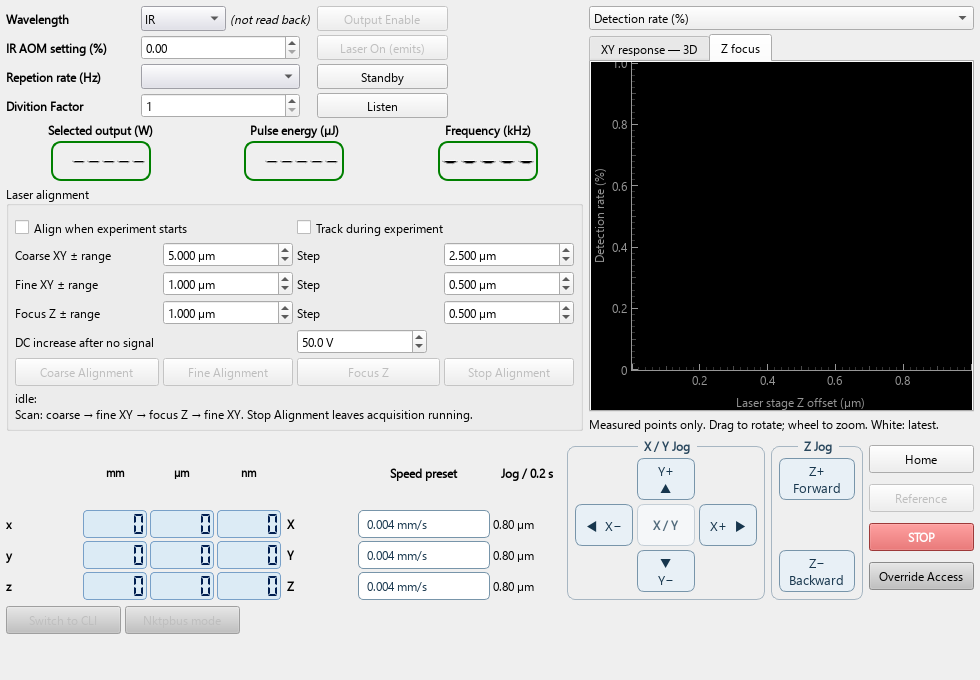
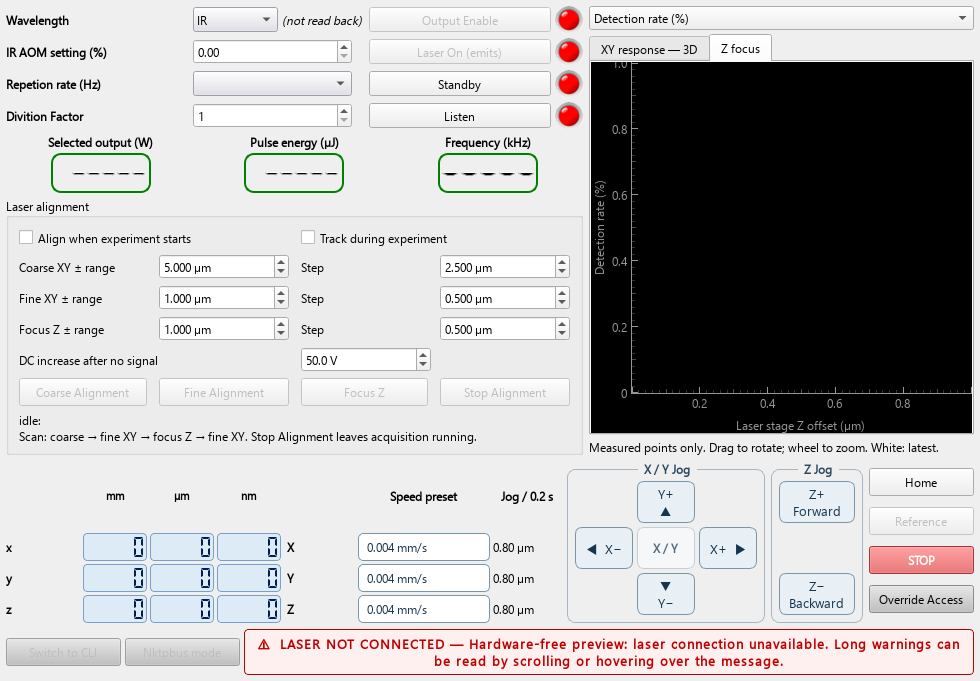
Bound laser messages to two lines and space alignment fields

diff --git a/pyccapt/control/gui/laser_layout.py b/pyccapt/control/gui/laser_layout.py
@@ -3,6 +3,11 @@ from PyQt6 import QtCore, QtWidgets
 
 
 class LaserLayoutMixin:
+    def _reset_laser_message_scroll(self):
+        area = getattr(self, 'laser_message_area', None)
+        if area is not None:
+            area.verticalScrollBar().setValue(0)
+
     def _setup_compact_laser_layout(self, parent):
         main = self.gridLayout_5
         while main.count():
@@ -26,6 +31,10 @@ class LaserLayoutMixin:
         self.laser_wavelegnth.setFixedSize(85, 25)
         for button in (self.laser_enable, self.laser_on, self.laser_standby, self.laser_listen):
             button.setFixedHeight(25)
+        for led in (self.led_laser_enable, self.led_laser_on,
+                    self.led_laser_laser_standby, self.led_laser_listen):
+            led.setFixedSize(28, 28)
+            led.setScaledContents(True)
         while self.horizontalLayout.count():
             self.horizontalLayout.takeAt(0)
         readouts = QtWidgets.QGridLayout()
@@ -40,8 +49,11 @@ class LaserLayoutMixin:
             readouts.addWidget(label, 0, column)
             readouts.addWidget(lcd, 1, column, alignment=QtCore.Qt.AlignmentFlag.AlignCenter)
         settings_layout.addLayout(readouts)
-        self.laser_alignment_panel.layout().setContentsMargins(6, 10, 6, 6)
-        self.laser_alignment_panel.layout().setSpacing(4)
+        alignment = self.laser_alignment_panel.layout()
+        alignment.setContentsMargins(10, 8, 10, 8)
+        alignment.setHorizontalSpacing(12)
+        alignment.setVerticalSpacing(6)
+        alignment.setSizeConstraint(QtWidgets.QLayout.SizeConstraint.SetMinimumSize)
         for field in self.laser_alignment_fields.values():
             widest_value = f'{field.maximum():.{field.decimals()}f}{field.suffix()}'
             field.setFixedSize(max(130, field.fontMetrics().horizontalAdvance(widest_value) + 30), 25)
@@ -86,11 +98,29 @@ class LaserLayoutMixin:
             button.setFixedSize(115, 28)
             connection.addWidget(button)
         self.laser_connection_banner.setMinimumWidth(0)
-        connection.addWidget(self.laser_connection_banner, 1)
-        connection.addStretch(1)
+        # Both message types share a two-line viewport. Long warnings remain
+        # readable by scrolling instead of increasing the window's height.
+        self.laser_message_area = QtWidgets.QScrollArea(parent)
+        self.laser_message_area.setObjectName('laser_message_area')
+        self.laser_message_area.setFrameShape(QtWidgets.QFrame.Shape.NoFrame)
+        self.laser_message_area.setWidgetResizable(True)
+        self.laser_message_area.setHorizontalScrollBarPolicy(QtCore.Qt.ScrollBarPolicy.ScrollBarAlwaysOff)
+        line_height = max(self.Error.fontMetrics().lineSpacing(),
+                          self.laser_connection_banner.fontMetrics().lineSpacing())
+        self.laser_message_area.setFixedHeight(2 * line_height + 12)
+        messages = QtWidgets.QWidget()
+        message_layout = QtWidgets.QVBoxLayout(messages)
+        message_layout.setContentsMargins(0, 0, 0, 0)
+        message_layout.setSpacing(4)
+        message_layout.setSizeConstraint(QtWidgets.QLayout.SizeConstraint.SetMinimumSize)
+        for label in (self.Error, self.laser_connection_banner):
+            label.setMinimumWidth(0)
+            label.setSizePolicy(QtWidgets.QSizePolicy.Policy.Expanding, QtWidgets.QSizePolicy.Policy.Minimum)
+            message_layout.addWidget(label)
+        self.Error.setVisible(getattr(self, '_laser_error_active', False))
+        self.laser_message_area.setWidget(messages)
+        connection.addWidget(self.laser_message_area, 1)
         main.addLayout(connection, 2, 0, 1, 2)
-        self.Error.setMinimumWidth(0)
-        main.addWidget(self.Error, 3, 0, 1, 2)
         main.setColumnStretch(0, 3)
         main.setColumnStretch(1, 2)
         main.setRowStretch(0, 1)

diff --git a/tests/control/test_responsive_gui.py b/tests/control/test_responsive_gui.py
@@ -410,8 +410,14 @@ def test_camera_compact_layout_preserves_views_and_all_controls(instrument_windo
 def test_laser_compact_layout_preserves_controls_and_readouts(instrument_window, tmp_path):
     window, ui, app = instrument_window
     # Exercise the persistent banner as well as the wrapped alignment status.
-    ui.laser_connection_banner.setText('Laser unavailable: reconnect the configured CLI port.')
-    ui.laser_connection_banner.show()
+    reason = ("Laser: port COM9 opened but the laser did not reply to any CLI command "
+              "(Incomplete or missing laser reply to ly_oxp2_dev_status?). Most likely "
+              "the laser is in NKTPBus mode — use 'Switch to CLI', or check the cable.")
+    ui._set_laser_disconnected_banner(reason)
+    led = QtGui.QPixmap(str(runtime.project_path('files', 'led-red-on.png')))
+    assert not led.isNull()
+    for widget in (ui.led_laser_on, ui.led_laser_enable, ui.led_laser_listen, ui.led_laser_laser_standby):
+        widget.setPixmap(led)
     if ui.alignment_plot.view is not None:
         ui.alignment_plot.tabs.setCurrentIndex(1)
     window.show()
@@ -429,7 +435,7 @@ def test_laser_compact_layout_preserves_controls_and_readouts(instrument_window,
                 *ui.laser_alignment_fields.values(), *ui.laser_alignment_buttons,
                 ui.laser_alignment_stop, ui.laser_alignment_label, ui.alignment_plot,
                 ui.laser_home, ui.laser_stage_reference, ui.laser_stage_stop, ui.laser_stage_superuser,
-                ui.switch_to_cli_button, ui.nktpbus_mode_switch, ui.laser_connection_banner,
+                ui.switch_to_cli_button, ui.nktpbus_mode_switch, ui.laser_message_area,
                 ui.laser_up, ui.laser_down, ui.laser_left, ui.laser_right,
                 ui.laser_forward, ui.laser_backward, ui.laser_power_disp,
                 ui.laser_pulse_energy_disp, ui.laser_repetion_rate_disp]
@@ -454,6 +460,34 @@ def test_laser_compact_layout_preserves_controls_and_readouts(instrument_window,
     assert not ui.switch_to_cli_button.isEnabled()
     assert ui.label_9.text() == 'Selected output (W)'
     assert ui.label_10.text() == 'Pulse energy (µJ)'
+    for suffix in ('range_um', 'step_um'):
+        fields = [ui.laser_alignment_fields[f'{mode}_{suffix}'] for mode in ('coarse', 'fine', 'focus')]
+        for top, bottom in zip(fields, fields[1:]):
+            assert bottom.y() - (top.y() + top.height()) >= 6
+    assert reason in ui.laser_connection_banner.text()
+    assert ui.laser_connection_banner.toolTip() == reason
+    area = ui.laser_message_area
+    assert area.height() == 2 * max(ui.Error.fontMetrics().lineSpacing(),
+                                   ui.laser_connection_banner.fontMetrics().lineSpacing()) + 12
+    assert area.verticalScrollBar().maximum() > 0
+    original_height = window.height()
+    ui.error_message('A long stage warning: ' + 'Keep the path clear and check the stage connection. ' * 12)
+    for _ in range(5):
+        app.processEvents()
+    assert ui.Error.isVisible()
+    assert 'Keep the path clear' in ui.Error.toolTip()
+    assert window.height() == original_height
+    area.verticalScrollBar().setValue(area.verticalScrollBar().maximum())
+    app.processEvents()
+    banner_bottom = ui.laser_connection_banner.mapTo(area.viewport(),
+                                                    ui.laser_connection_banner.rect().bottomLeft())
+    assert area.viewport().rect().contains(banner_bottom)
+    ui.hideMessage()
+    for _ in range(5):
+        app.processEvents()
+    assert ui.Error.isHidden()
+    assert ui.laser_connection_banner.isVisible()
+    assert area.verticalScrollBar().value() == 0
     window.grab().save(str(tmp_path/'laser.png'))
 
 

diff --git a/pyccapt/control/gui/gui_laser_control.py b/pyccapt/control/gui/gui_laser_control.py
@@ -99,7 +99,7 @@ class Ui_Laser_Control(LaserReadoutMixin, LaserAlignmentGuiMixin, LaserLayoutMix
             None
         """
         Laser_Control.setObjectName("Laser_Control")
-        Laser_Control.resize(980, 680)
+        Laser_Control.resize(980, 650)
         self.gridLayout_6 = QtWidgets.QGridLayout(Laser_Control)
         self.gridLayout_6.setObjectName("gridLayout_6")
         self.gridLayout_5 = QtWidgets.QGridLayout()
@@ -1422,6 +1422,7 @@ class Ui_Laser_Control(LaserReadoutMixin, LaserAlignmentGuiMixin, LaserLayoutMix
         """
         if not reason:
             self.laser_connection_banner.setText("")
+            self.laser_connection_banner.setToolTip("")
             self.laser_connection_banner.setVisible(False)
             self.laser_connection_banner.setStyleSheet("")
             try:
@@ -1431,10 +1432,12 @@ class Ui_Laser_Control(LaserReadoutMixin, LaserAlignmentGuiMixin, LaserLayoutMix
             return
         self._invalidate_laser_readouts(reason)
         self.laser_connection_banner.setText(f"⚠  LASER NOT CONNECTED — {reason}")
+        self.laser_connection_banner.setToolTip(str(reason))
         self.laser_connection_banner.setStyleSheet(
             "QLabel{background: #fff0f0;color: #c00000;border: 1px solid #c00000;border-radius: 4px;padding: 4px;}"
         )
         self.laser_connection_banner.setVisible(True)
+        self._reset_laser_message_scroll()
         try:
             self.variables.flag_laser_connected = False
         except Exception:
@@ -1653,7 +1656,10 @@ class Ui_Laser_Control(LaserReadoutMixin, LaserAlignmentGuiMixin, LaserLayoutMix
                 "OXCART", "<html><head/><body><p><span style=\" color:#ff0000;\">" + message + "</span></p></body></html>"
             )
         )
-
+        self.Error.setToolTip(message)
+        self._laser_error_active = True
+        self.Error.show()
+        self._reset_laser_message_scroll()
         self.timer_hide_error.start(8000)
 
     def hideMessage(
@@ -1674,6 +1680,10 @@ class Ui_Laser_Control(LaserReadoutMixin, LaserAlignmentGuiMixin, LaserLayoutMix
         )
 
         self.timer_hide_error.stop()
+        self.Error.setToolTip('')
+        self._laser_error_active = False
+        self.Error.hide()
+        self._reset_laser_message_scroll()
 
     def stop(self):
         """Stop background workers and release device handles.

diff --git a/docs/CONTROL.md b/docs/CONTROL.md
@@ -214,12 +214,15 @@ slider and value. All six overview/detail views, three camera connections,
 sample-position controls and five instrument monitors remain visible. The
 window grows if detected-camera descriptions require more height.
 
-Laser Control opens at 980 × 680. Settings and three optical readouts sit above
+Laser Control defaults to 980 × 650. Settings and three optical readouts sit above
 the alignment controls beside the response plot; stage position readouts, speed
 presets, jog buttons, Home, Reference, STOP and Override Access occupy the row
 below. Both plot tabs, alignment settings and CLI/NKTPBus controls remain
 available. Fields accommodate their maximum values and speed presets, and
-connection and alignment messages still wrap.
+connection and alignment messages still wrap. Alignment fields have six pixels
+between rows and wider column gaps so they cannot overlap. Connection warnings
+and temporary errors share a two-line message area; scroll or hover to read
+longer messages. The window grows to fit the controls when fonts require it.
 
 Visualization opens at 980 × 620. The four upper rectangular panels have
 identical pixel dimensions at every window size. Compact voltage controls and

diff --git a/pyccapt/control/CONTROL.md b/pyccapt/control/CONTROL.md
@@ -211,12 +211,15 @@ slider and value. All six overview/detail views, three camera connections,
 sample-position controls and five instrument monitors remain visible. The
 window grows if detected-camera descriptions require more height.
 
-Laser Control opens at 980 × 680. Settings and three optical readouts sit above
+Laser Control defaults to 980 × 650. Settings and three optical readouts sit above
 the alignment controls beside the response plot; stage position readouts, speed
 presets, jog buttons, Home, Reference, STOP and Override Access occupy the row
 below. Both plot tabs, alignment settings and CLI/NKTPBus controls remain
 available. Fields accommodate their maximum values and speed presets, and
-connection and alignment messages still wrap.
+connection and alignment messages still wrap. Alignment fields have six pixels
+between rows and wider column gaps so they cannot overlap. Connection warnings
+and temporary errors share a two-line message area; scroll or hover to read
+longer messages. The window grows to fit the controls when fonts require it.
 
 Visualization opens at 980 × 620. The four upper rectangular panels have
 identical pixel dimensions at every window size. Compact voltage controls and

diff --git a/README.md b/README.md
@@ -205,9 +205,12 @@ All axis controls, Home, Reference, STOP and Override Access remain visible.
 
 Cameras uses a narrower 900 × 700 default window, with each exposure slider and
 value on one row. All six camera views, camera connections, sample positions
-and instrument monitors remain available. Laser Control opens at 980 × 680:
+and instrument monitors remain available. Laser Control defaults to 980 × 650:
 laser settings, readouts and alignment controls sit beside the response plot,
-with all stage controls below. Visualization opens at 980 × 620, with compact
+with all stage controls below. Its messages share a two-line area; scroll or
+hover to read longer messages. Alignment fields have space between rows and
+columns, and the window grows to fit readable controls when needed.
+Visualization opens at 980 × 620, with compact
 fields and two rows of spectrum controls. Its four upper rectangular panels
 always have identical widths and heights, including during window resizing.
 These windows scroll on smaller screens so controls remain accessible.
